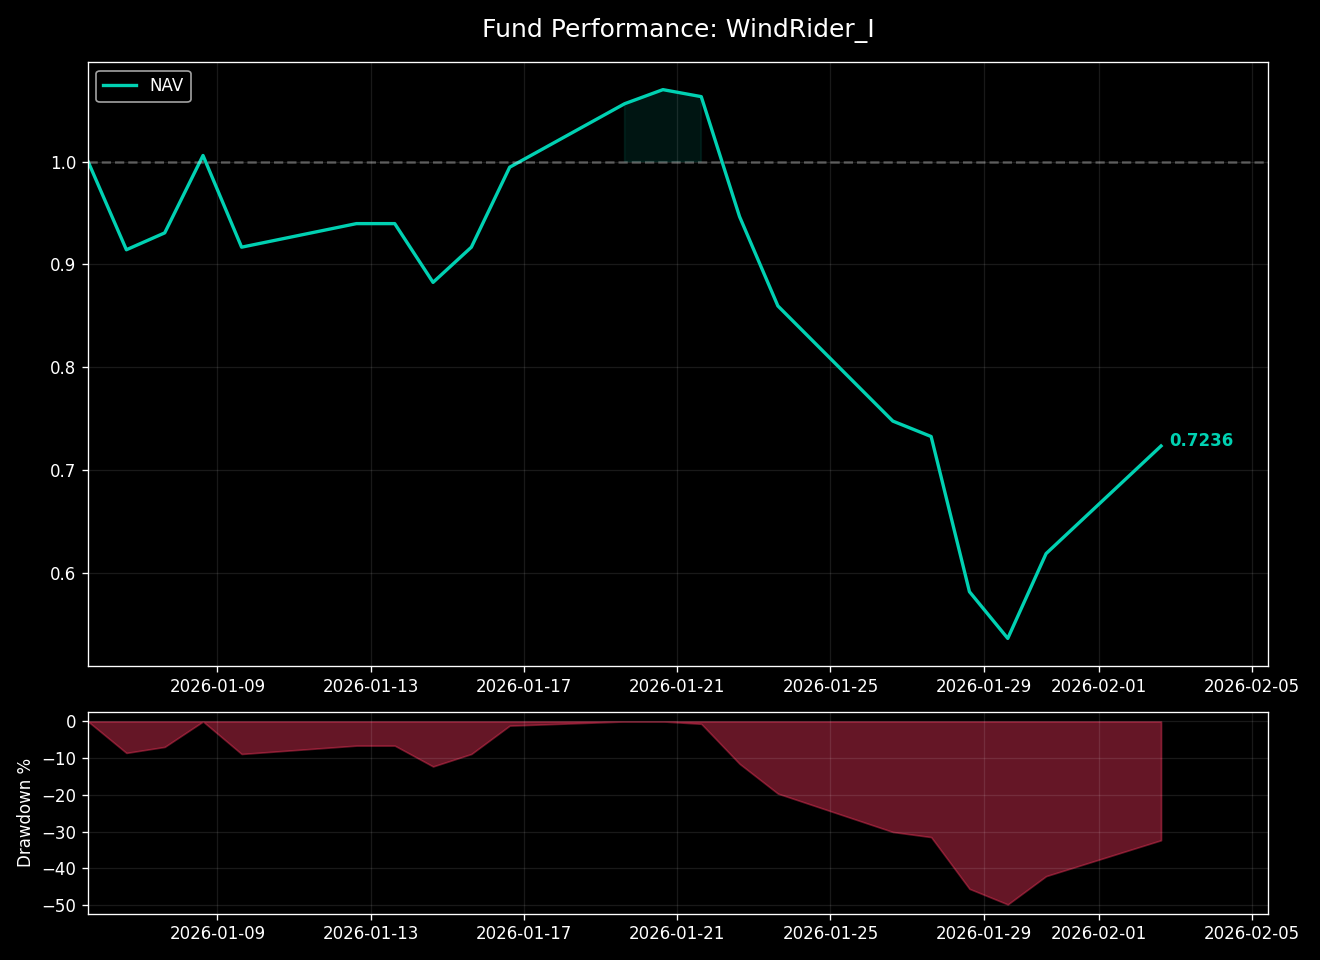
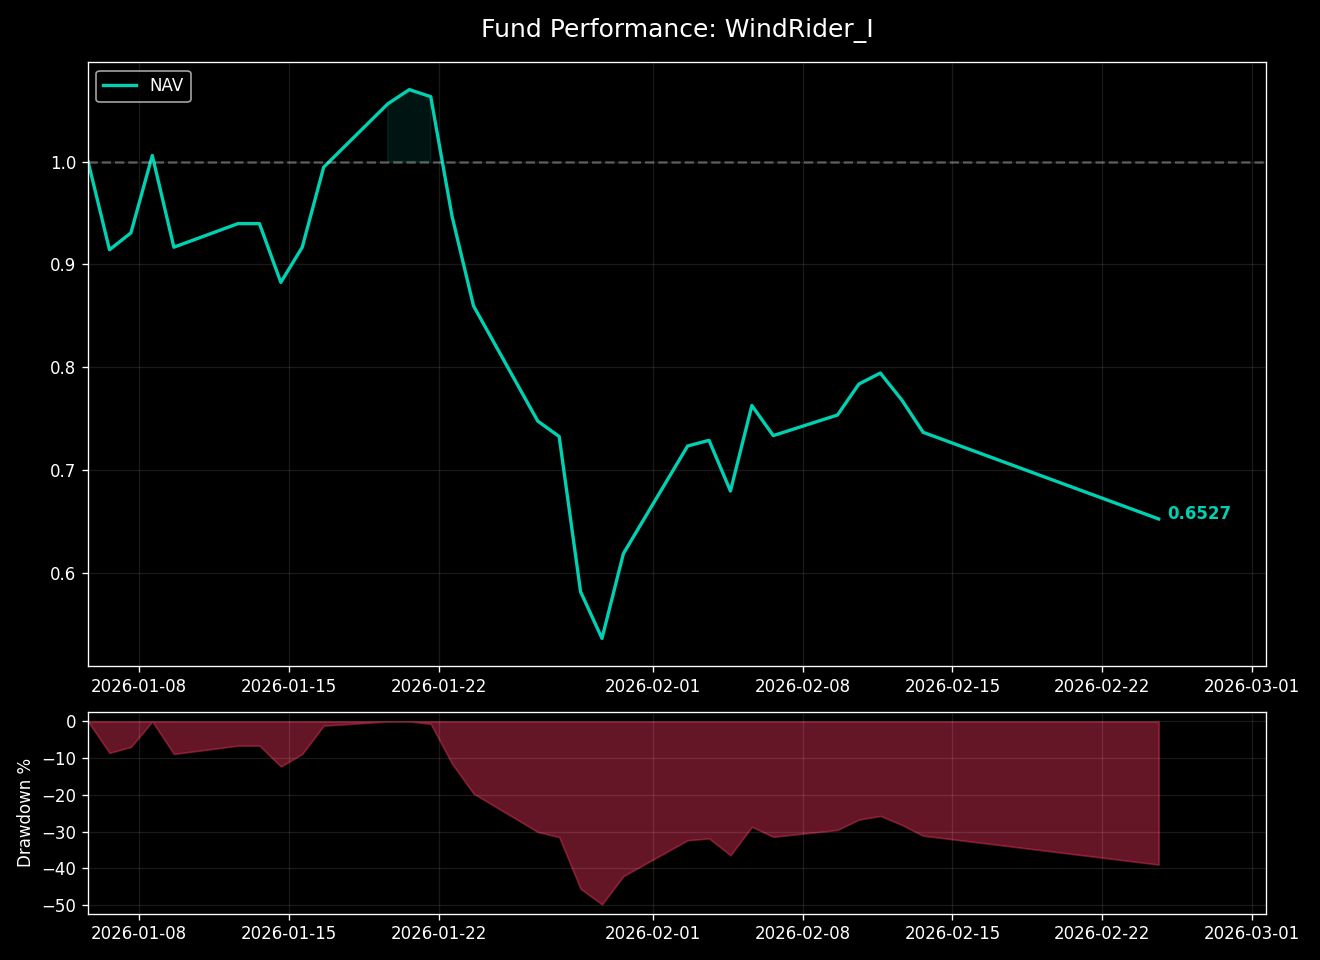
Updated Hugo site content

diff --git a/public/investment/position/index.html b/public/investment/position/index.html
@@ -66,8 +66,8 @@
   <meta property="og:locale" content="zh-cn">
   <meta property="og:type" content="article">
     <meta property="article:section" content="investment">
-    <meta property="article:published_time" content="2026-02-02T15:10:05+08:00">
-    <meta property="article:modified_time" content="2026-02-02T15:10:05+08:00">
+    <meta property="article:published_time" content="2026-02-24T18:00:38+08:00">
+    <meta property="article:modified_time" content="2026-02-24T18:00:38+08:00">
 <meta name="twitter:card" content="summary">
 <meta name="twitter:title" content="持仓 Position">
 <meta name="twitter:description" content="WindRider Stock Portfolio">
@@ -103,11 +103,11 @@
   "keywords": [
     
   ],
-  "articleBody": " 风舵股票组合 /// 每日持仓 WindRider Equity Portfolio 净值简报 (截至: 2026-02-02)\n指数代码： WDR.EQ 成立日期： 2025-11-19 最新净值： 1.0805 今日涨跌： -5.46% ===========================\n核心表现 累计收益： +8.05% 年化收益： +45.76% 最大回撤： -9.84% 基准点位： 4605.98 (CSI300) 策略状态： 已运行 76 天 持仓明细 股票名称 成本价 现价 盈亏 占比 先导智能 300450 50.36 55.71 +10.62% 50.92% 新 和 成 002001 24.84 26.24 +5.65% 47.97% 收益率对比曲线 声明：本页面数据为实盘记录，持仓数据每日收盘后更新。\n数据仅供技术交流，不构成投资建议。\n",
+  "articleBody": " 风舵股票组合 /// 每日持仓 WindRider Equity Portfolio 净值简报 (截至: 2026-02-24)\n指数代码： WDR.EQ 成立日期： 2025-11-19 最新净值： 1.1315 今日涨跌： -0.15% ===========================\n核心表现 累计收益： +13.15% 年化收益： +59.18% 最大回撤： -9.05% 基准点位： 4707.54 (CSI300) 策略状态： 已运行 98 天 持仓明细 股票名称 成本价 现价 盈亏 占比 先导智能 300450 50.36 54.31 +7.84% 46.91% 新 和 成 002001 24.84 29.59 +19.13% 51.11% 收益率对比曲线 声明：本页面数据为实盘记录，持仓数据每日收盘后更新。\n数据仅供技术交流，不构成投资建议。\n",
   "wordCount" : "55",
   "inLanguage": "zh-cn",
-  "datePublished": "2026-02-02T15:10:05+08:00",
-  "dateModified": "2026-02-02T15:10:05+08:00",
+  "datePublished": "2026-02-24T18:00:38+08:00",
+  "dateModified": "2026-02-24T18:00:38+08:00",
   "mainEntityOfPage": {
     "@type": "WebPage",
     "@id": "https://hankou.com/investment/position/"
@@ -191,7 +191,7 @@
     <div class="post-description">
       WindRider Stock Portfolio
     </div>
-    <div class="post-meta"><span title='2026-02-02 15:10:05 +0800 CST'>February 2, 2026</span>
+    <div class="post-meta"><span title='2026-02-24 18:00:38 +0800 CST'>February 24, 2026</span>
 
 </div>
   </header> 
@@ -200,7 +200,7 @@
 </style>
 <h3 id="风舵股票组合--每日持仓">风舵股票组合   <span style="color: #E63946; font-weight: bold;">/</span><span style="color: #F1A73E; font-weight: bold;">/</span><span style="color: #000091; font-weight: bold;">/</span>   每日持仓<a hidden class="anchor" aria-hidden="true" href="#风舵股票组合--每日持仓">#</a></h3>
 <p>WindRider Equity Portfolio <br>
-净值简报 <small>(截至: 2026-02-02)</small></p>
+净值简报 <small>(截至: 2026-02-24)</small></p>
 <table>
   <thead>
       <tr>
@@ -219,11 +219,11 @@
       </tr>
       <tr>
           <td style="text-align: left"><strong>最新净值：</strong></td>
-          <td style="text-align: left">1.0805</td>
+          <td style="text-align: left">1.1315</td>
       </tr>
       <tr>
           <td style="text-align: left"><strong>今日涨跌：</strong></td>
-          <td style="text-align: left">-5.46%</td>
+          <td style="text-align: left">-0.15%</td>
       </tr>
   </tbody>
 </table>
@@ -238,23 +238,23 @@
   <tbody>
       <tr>
           <td style="text-align: left"><strong>累计收益：</strong></td>
-          <td style="text-align: left">+8.05%</td>
+          <td style="text-align: left">+13.15%</td>
       </tr>
       <tr>
           <td style="text-align: left"><strong>年化收益：</strong></td>
-          <td style="text-align: left">+45.76%</td>
+          <td style="text-align: left">+59.18%</td>
       </tr>
       <tr>
           <td style="text-align: left"><strong>最大回撤：</strong></td>
-          <td style="text-align: left">-9.84%</td>
+          <td style="text-align: left">-9.05%</td>
       </tr>
       <tr>
           <td style="text-align: left"><strong>基准点位：</strong></td>
-          <td style="text-align: left">4605.98 (CSI300)</td>
+          <td style="text-align: left">4707.54 (CSI300)</td>
       </tr>
       <tr>
           <td style="text-align: left"><strong>策略状态：</strong></td>
-          <td style="text-align: left">已运行 76 天</td>
+          <td style="text-align: left">已运行 98 天</td>
       </tr>
   </tbody>
 </table>
@@ -274,17 +274,17 @@
       <tr>
           <td style="text-align: left">先导智能 <small>300450</small></td>
           <td style="text-align: left">50.36</td>
-          <td style="text-align: left">55.71</td>
-          <td style="text-align: left"><span style="color:#E63946">+10.62%</span></td>
-          <td style="text-align: left">50.92%</td>
+          <td style="text-align: left">54.31</td>
+          <td style="text-align: left"><span style="color:#E63946">+7.84%</span></td>
+          <td style="text-align: left">46.91%</td>
           <td></td>
       </tr>
       <tr>
           <td style="text-align: left">新 和 成 <small>002001</small></td>
           <td style="text-align: left">24.84</td>
-          <td style="text-align: left">26.24</td>
-          <td style="text-align: left"><span style="color:#E63946">+5.65%</span></td>
-          <td style="text-align: left">47.97%</td>
+          <td style="text-align: left">29.59</td>
+          <td style="text-align: left"><span style="color:#E63946">+19.13%</span></td>
+          <td style="text-align: left">51.11%</td>
           <td></td>
       </tr>
   </tbody>

diff --git a/public/investment/windrider-1/index.html b/public/investment/windrider-1/index.html
@@ -66,8 +66,8 @@
   <meta property="og:locale" content="zh-cn">
   <meta property="og:type" content="article">
     <meta property="article:section" content="investment">
-    <meta property="article:published_time" content="2026-02-02T16:54:43+08:00">
-    <meta property="article:modified_time" content="2026-02-02T16:54:43+08:00">
+    <meta property="article:published_time" content="2026-02-24T15:15:03+08:00">
+    <meta property="article:modified_time" content="2026-02-24T15:15:03+08:00">
 <meta name="twitter:card" content="summary">
 <meta name="twitter:title" content="风舵1号 (WindRider I)  /// 指数">
 <meta name="twitter:description" content="商品期货分形摆动策略实盘">
@@ -103,11 +103,11 @@
   "keywords": [
     
   ],
-  "articleBody": " 风舵1号 (WindRider I) /// 指数 商品期货分形摆动策略实盘\n净值简报 (截至: 2026-02-02)\n指数代码： WDR1.CTA 起步日期： 2026-01-05 最新净值： 0.7236 今日涨跌： +16.90% ===========================\n核心指标 累计涨跌： -27.64% 年化收益： -98.53% 最大回撤： -49.85% 卡玛比率： -1.98 策略状态： 已运行 29 天 净值曲线图 声明：本页面数据为实盘记录，持仓数据每日收盘后更新。\n数据仅供技术交流，不构成投资建议。\n",
+  "articleBody": " 风舵1号 (WindRider I) /// 指数 商品期货分形摆动策略实盘\n净值简报 (截至: 2026-02-24)\n指数代码： WDR1.CTA 起步日期： 2026-01-05 最新净值： 0.6527 今日涨跌： -11.43% ===========================\n核心指标 累计涨跌： -34.73% 年化收益： -95.56% 最大回撤： -49.85% 卡玛比率： -1.92 策略状态： 已运行 51 天 净值曲线 声明：本页面数据为实盘记录，持仓数据每日收盘后更新。\n数据仅供技术交流，不构成投资建议。\n",
   "wordCount" : "34",
   "inLanguage": "zh-cn",
-  "datePublished": "2026-02-02T16:54:43+08:00",
-  "dateModified": "2026-02-02T16:54:43+08:00",
+  "datePublished": "2026-02-24T15:15:03+08:00",
+  "dateModified": "2026-02-24T15:15:03+08:00",
   "mainEntityOfPage": {
     "@type": "WebPage",
     "@id": "https://hankou.com/investment/windrider-1/"
@@ -191,7 +191,7 @@
     <div class="post-description">
       商品期货分形摆动策略实盘
     </div>
-    <div class="post-meta"><span title='2026-02-02 16:54:43 +0800 CST'>February 2, 2026</span>
+    <div class="post-meta"><span title='2026-02-24 15:15:03 +0800 CST'>February 24, 2026</span>
 
 </div>
   </header> 
@@ -203,7 +203,7 @@
 </style>
 <h3 id="风舵1号-windrider-i--指数">风舵1号 (WindRider I)   <span style="color: #E63946; font-weight: bold;">/</span><span style="color: #F1A73E; font-weight: bold;">/</span><span style="color: #000091; font-weight: bold;">/</span>   指数<a hidden class="anchor" aria-hidden="true" href="#风舵1号-windrider-i--指数">#</a></h3>
 <p>商品期货分形摆动策略实盘<br>
-净值简报 <small>(截至: 2026-02-02)</small></p>
+净值简报 <small>(截至: 2026-02-24)</small></p>
 <table>
   <thead>
       <tr>
@@ -222,11 +222,11 @@
       </tr>
       <tr>
           <td style="text-align: left"><strong>最新净值：</strong></td>
-          <td style="text-align: left">0.7236</td>
+          <td style="text-align: left">0.6527</td>
       </tr>
       <tr>
           <td style="text-align: left"><strong>今日涨跌：</strong></td>
-          <td style="text-align: left">+16.90%</td>
+          <td style="text-align: left">-11.43%</td>
       </tr>
   </tbody>
 </table>
@@ -241,11 +241,11 @@
   <tbody>
       <tr>
           <td style="text-align: left"><strong>累计涨跌：</strong></td>
-          <td style="text-align: left">-27.64%</td>
+          <td style="text-align: left">-34.73%</td>
       </tr>
       <tr>
           <td style="text-align: left"><strong>年化收益：</strong></td>
-          <td style="text-align: left">-98.53%</td>
+          <td style="text-align: left">-95.56%</td>
       </tr>
       <tr>
           <td style="text-align: left"><strong>最大回撤：</strong></td>
@@ -253,15 +253,15 @@
       </tr>
       <tr>
           <td style="text-align: left"><strong>卡玛比率：</strong></td>
-          <td style="text-align: left">-1.98</td>
+          <td style="text-align: left">-1.92</td>
       </tr>
       <tr>
           <td style="text-align: left"><strong>策略状态：</strong></td>
-          <td style="text-align: left">已运行 29 天</td>
+          <td style="text-align: left">已运行 51 天</td>
       </tr>
   </tbody>
 </table>
-<h3 id="净值曲线图">净值曲线图<a hidden class="anchor" aria-hidden="true" href="#净值曲线图">#</a></h3>
+<h3 id="净值曲线">净值曲线<a hidden class="anchor" aria-hidden="true" href="#净值曲线">#</a></h3>
 <p><img alt="风舵1号净值曲线" loading="lazy" src="/images/investment/windrider_nav.png"></p>
 <hr>
 <p><em>声明：本页面数据为实盘记录，持仓数据每日收盘后更新。<br>

diff --git a/public/investment/index.html b/public/investment/index.html
@@ -146,26 +146,26 @@
 
 <article class="post-entry"> 
   <header class="entry-header">
-    <h2 class="entry-hint-parent">风舵1号 (WindRider I)  /// 指数
-    </h2>
-  </header>
-  <div class="entry-content">
-    <p>商品期货分形摆动策略，实盘最新净值与核心风险指标。</p>
-  </div>
-  <footer class="entry-footer"><span title='2026-02-02 16:54:43 +0800 CST'>February 2, 2026</span></footer>
-  <a class="entry-link" aria-label="post link to 风舵1号 (WindRider I)  /// 指数" href="https://hankou.com/investment/windrider-1/"></a>
-</article>
-
-<article class="post-entry"> 
-  <header class="entry-header">
     <h2 class="entry-hint-parent">持仓 Position
     </h2>
   </header>
   <div class="entry-content">
     <p>主动管理型股票组合。对标沪深300指数，采用基本面选股策略。</p>
   </div>
-  <footer class="entry-footer"><span title='2026-02-02 15:10:05 +0800 CST'>February 2, 2026</span></footer>
+  <footer class="entry-footer"><span title='2026-02-24 18:00:38 +0800 CST'>February 24, 2026</span></footer>
   <a class="entry-link" aria-label="post link to 持仓 Position" href="https://hankou.com/investment/position/"></a>
+</article>
+
+<article class="post-entry"> 
+  <header class="entry-header">
+    <h2 class="entry-hint-parent">风舵1号 (WindRider I)  /// 指数
+    </h2>
+  </header>
+  <div class="entry-content">
+    <p>商品期货分形摆动策略，实盘最新净值与核心风险指标。</p>
+  </div>
+  <footer class="entry-footer"><span title='2026-02-24 15:15:03 +0800 CST'>February 24, 2026</span></footer>
+  <a class="entry-link" aria-label="post link to 风舵1号 (WindRider I)  /// 指数" href="https://hankou.com/investment/windrider-1/"></a>
 </article>
 
 <article class="post-entry"> 

diff --git a/content/investment/position.md b/content/investment/position.md
@@ -1,8 +1,8 @@
 +++
 title = "持仓 Position"
 summary = "主动管理型股票组合。对标沪深300指数，采用基本面选股策略。"
-date = 2026-02-24T18:00:38+08:00
-lastmod = 2026-02-24T18:00:38+08:00
+date = 2026-02-25T15:10:05+08:00
+lastmod = 2026-02-25T15:10:05+08:00
 draft = false
 description = "WindRider Stock Portfolio"
 +++
@@ -12,30 +12,30 @@ description = "WindRider Stock Portfolio"
 
 ### 风舵股票组合 &nbsp;&nbsp;<span style="color: #E63946; font-weight: bold;">/</span><span style="color: #F1A73E; font-weight: bold;">/</span><span style="color: #000091; font-weight: bold;">/</span>&nbsp;&nbsp; 每日持仓
 WindRider Equity Portfolio <br>
-净值简报 <small>(截至: 2026-02-24)</small>
+净值简报 <small>(截至: 2026-02-25)</small>
 
 |  |  |
 | :--- | :--- |
 | **指数代码：** | WDR.EQ |
 | **成立日期：** | 2025-11-19 |
-| **最新净值：** | 1.1315 |
-| **今日涨跌：** | -0.15% |
+| **最新净值：** | 1.1516 |
+| **今日涨跌：** | +1.78% |
 
 ===========================
 
 | 核心表现 | |
 | :--- | :--- |
-| **累计收益：** | +13.15% |
-| **年化收益：** | +59.18% |
+| **累计收益：** | +15.16% |
+| **年化收益：** | +69.17% |
 | **最大回撤：** | -9.05% |
-| **基准点位：** | 4707.54 (CSI300) |
-| **策略状态：** | 已运行 98 天 |
+| **基准点位：** | 4735.89 (CSI300) |
+| **策略状态：** | 已运行 99 天 |
 
 ### 持仓明细
 | 股票名称 | 成本价 | 现价 | 盈亏 | 占比 |
 | :--- | :--- | :--- | :--- | :--- | :--- |
-| 先导智能 <small>300450</small> | 50.36 | 54.31 | <span style="color:#E63946">+7.84%</span> | 46.91% |
-| 新 和 成 <small>002001</small> | 24.84 | 29.59 | <span style="color:#E63946">+19.13%</span> | 51.11% |
+| 先导智能 <small>300450</small> | 50.36 | 55.45 | <span style="color:#E63946">+10.11%</span> | 47.05% |
+| 新 和 成 <small>002001</small> | 24.84 | 30.05 | <span style="color:#E63946">+20.99%</span> | 51.0% |
 
 <br>
 
